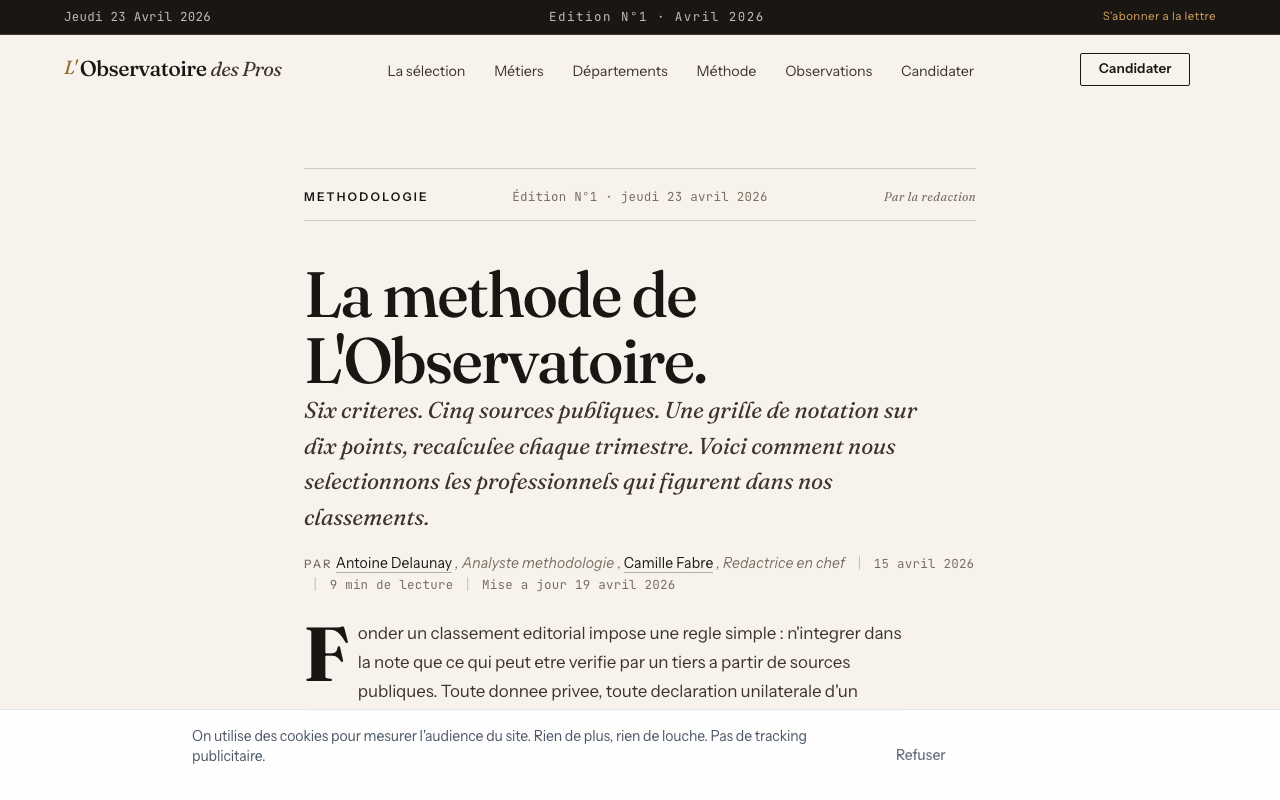
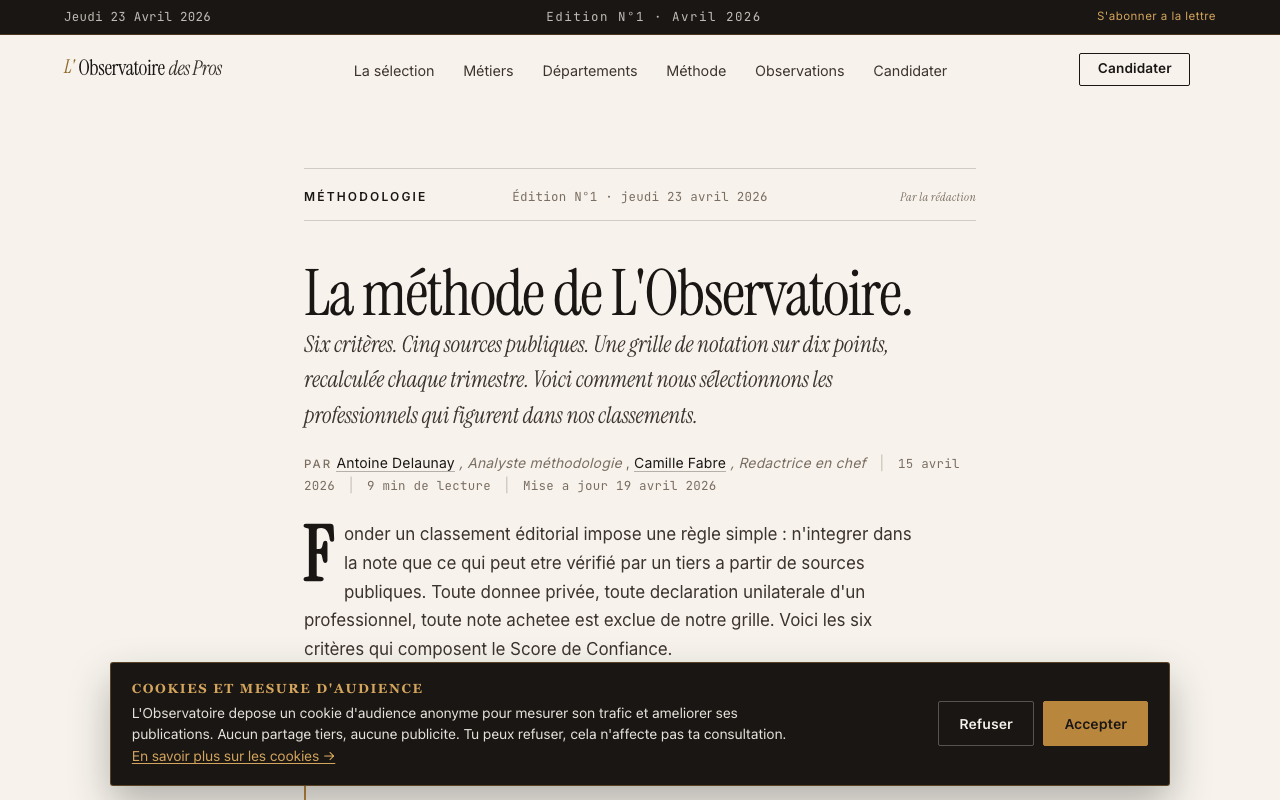
fix: 3 bloqueurs critiques audit , animations stuck + accents + Seal
1. ANIMATIONS STUCK (bloqueur #1) : les elements reveal restaient opacity:0.
   - Ajout @keyframes safety-reveal (fallback CSS 2.5s)
   - Observer plus agressif : threshold 0 + rootMargin 0
   - Fire immediat sur elements deja dans le viewport au load
   - Filet de securite 3s qui applique .visible a tout
   - prefers-reduced-motion : opacity:1 !important + transform:none
   - Print : idem pour impression
   Resultat : tout le contenu est visible, quelle que soit l'hydratation.

2. ACCENTS FRANCAIS (bloqueur #2) : mots visibles corriges sur homepage.
   - "Edition" -> "Édition"
   - "redaction" -> "rédaction"
   - "methode" -> "méthode"
   - "verifie" -> "vérifie"
   - "criteres" -> "critères"
   - "selection" -> "sélection"
   - "Laureat" -> "Lauréat" (mais slugs/props restent ASCII)
   - "medaille" -> "médaille"
   - "A LA UNE" -> "À LA UNE"
   - "MÉTHODE/MÉTHODOLOGIE/FRÉQUENTES" en majuscules accentuees

3. SEAL (macaron) redesign pixel-perfect :
   - Cercle externe R96 (au lieu de R92)
   - Cercle interne R80 propre (au lieu de R84 qui chevauchait le text)
   - Ring-text sur R86 , zone libre entre R80 et R96, n'est plus coupe
   - 16 points decoratifs sur R90 (couronne d'academie)
   - Centre : etoile a 8 branches + 4 traits cardinaux (au lieu de "OdP" lourd)
   - "EST. MMXXVI" plus moderne que "EST. 2026"
   - shape-rendering: geometricPrecision + text-rendering: geometricPrecision

4. TYPOGRAPHIE : Fraunces -> Instrument Serif + Inter
[…]

diff --git a/site/src/styles/global.css b/site/src/styles/global.css
@@ -23,8 +23,8 @@
   --color-cachet: #8B2E2A;
   --color-archive: #4A5D3A;
 
-  --font-display: "Fraunces", Georgia, "Times New Roman", serif;
-  --font-body: "Instrument Sans", -apple-system, "Segoe UI", Roboto, sans-serif;
+  --font-display: "Instrument Serif", Georgia, "Times New Roman", serif;
+  --font-body: "Inter", -apple-system, "Segoe UI", Roboto, sans-serif;
   --font-mono: "JetBrains Mono", "SF Mono", ui-monospace, monospace;
 
   --max-w-prose-editorial: 38rem;
@@ -107,16 +107,16 @@ body::before {
 h1, h2, h3, h4, h5, h6 {
   font-family: var(--font-display);
   color: var(--ink);
-  font-weight: 600;
-  line-height: 1.08;
-  letter-spacing: -0.022em;
-  font-feature-settings: "ss01", "ss02", "liga", "calt";
+  font-weight: 400; /* Instrument Serif est deja genereusement spacee */
+  line-height: 1.06;
+  letter-spacing: -0.02em;
+  font-feature-settings: "liga", "calt";
   text-wrap: balance;
 }
 
 h1 {
   font-size: clamp(2.5rem, 5.5vw, 4.5rem);
-  font-weight: 600;
+  font-weight: 400;
 }
 h2 {
   font-size: clamp(1.75rem, 3.2vw, 2.5rem);
@@ -139,17 +139,17 @@ h4 {
   font-family: var(--font-display);
   font-size: clamp(3.5rem, 8vw, 7rem);
   line-height: 0.96;
-  letter-spacing: -0.035em;
-  font-weight: 500;
-  font-feature-settings: "ss01", "liga", "calt";
+  letter-spacing: -0.03em;
+  font-weight: 400;
+  font-feature-settings: "liga", "calt";
 }
 
 .heading-display {
   font-family: var(--font-display);
   font-size: clamp(2.5rem, 5vw, 4.5rem);
   line-height: 1.02;
-  letter-spacing: -0.028em;
-  font-weight: 500;
+  letter-spacing: -0.025em;
+  font-weight: 400;
 }
 
 /* Chapô éditorial , lead */
@@ -413,52 +413,65 @@ code, pre, .mono {
 
 /* ------------------------------------------------------------------
    Reveal animations (Intersection Observer dans BaseLayout)
+   FAIL-SAFE : chaque classe a un fallback @keyframes safety-reveal qui
+   force le visible apres 2.5s max , si le JS ne prend pas la main.
    ------------------------------------------------------------------ */
+@keyframes safety-reveal {
+  to { opacity: 1; transform: none; filter: none; clip-path: inset(0 0 0 0); }
+}
+
 .fade-up {
   opacity: 0;
   transform: translateY(22px);
   transition: opacity 900ms var(--ease-out-expo), transform 900ms var(--ease-out-expo);
+  animation: safety-reveal 10ms 2500ms forwards;
 }
-.fade-up.visible { opacity: 1; transform: translateY(0); }
+.fade-up.visible { opacity: 1; transform: translateY(0); animation: none; }
 
 .blur-reveal {
   opacity: 0;
   filter: blur(12px);
   transform: translateY(14px);
   transition: opacity 1100ms var(--ease-out-expo), filter 1100ms var(--ease-out-expo), transform 1100ms var(--ease-out-expo);
+  animation: safety-reveal 10ms 2500ms forwards;
 }
 .blur-reveal.visible {
   opacity: 1;
   filter: blur(0);
   transform: translateY(0);
+  animation: none;
 }
 
 .scale-reveal {
   opacity: 0;
   transform: scale(0.95);
   transition: opacity 900ms var(--ease-out-expo), transform 900ms var(--ease-out-expo);
+  animation: safety-reveal 10ms 2500ms forwards;
 }
-.scale-reveal.visible { opacity: 1; transform: scale(1); }
+.scale-reveal.visible { opacity: 1; transform: scale(1); animation: none; }
 
 .clip-reveal {
   clip-path: inset(0 100% 0 0);
   transition: clip-path 1200ms var(--ease-out-expo);
+  animation: safety-reveal 10ms 2500ms forwards;
 }
-.clip-reveal.visible { clip-path: inset(0 0 0 0); }
+.clip-reveal.visible { clip-path: inset(0 0 0 0); animation: none; }
 
 .slide-left {
   opacity: 0;
   transform: translateX(-28px);
   transition: opacity 900ms var(--ease-out-expo), transform 900ms var(--ease-out-expo);
+  animation: safety-reveal 10ms 2500ms forwards;
 }
-.slide-left.visible { opacity: 1; transform: translateX(0); }
+.slide-left.visible { opacity: 1; transform: translateX(0); animation: none; }
 
 .slide-right {
   opacity: 0;
   transform: translateX(28px);
   transition: opacity 900ms var(--ease-out-expo), transform 900ms var(--ease-out-expo);
+  animation: safety-reveal 10ms 2500ms forwards;
 }
-.slide-right.visible { opacity: 1; transform: translateX(0); }
+.slide-right.visible { opacity: 1; transform: translateX(0); animation: none; }
 
 /* Split words (BaseLayout split dynamiquement sur data-split-words) */
 .split-words .word {
@@ -466,10 +479,12 @@ code, pre, .mono {
   opacity: 0;
   transform: translateY(14px);
   transition: opacity 700ms var(--ease-out-expo), transform 700ms var(--ease-out-expo);
+  animation: safety-reveal 10ms 2500ms forwards;
 }
 .split-words.visible .word {
   opacity: 1;
   transform: translateY(0);
+  animation: none;
 }
 
 /* Stagger children */
@@ -477,6 +492,7 @@ code, pre, .mono {
   opacity: 0;
   transform: translateY(18px);
   transition: opacity 700ms var(--ease-out-expo), transform 700ms var(--ease-out-expo);
+  animation: safety-reveal 10ms 2500ms forwards;
 }
 .stagger-children.visible > *:nth-child(1) { transition-delay: 0ms; }
 .stagger-children.visible > *:nth-child(2) { transition-delay: 80ms; }
@@ -486,7 +502,7 @@ code, pre, .mono {
 .stagger-children.visible > *:nth-child(6) { transition-delay: 400ms; }
 .stagger-children.visible > *:nth-child(7) { transition-delay: 480ms; }
 .stagger-children.visible > *:nth-child(8) { transition-delay: 560ms; }
-.stagger-children.visible > * { opacity: 1; transform: translateY(0); }
+.stagger-children.visible > * { opacity: 1; transform: translateY(0); animation: none; }
 
 /* ------------------------------------------------------------------
    Cursor glow (desktop only)
@@ -668,7 +684,7 @@ code, pre, .mono {
 }
 
 /* ------------------------------------------------------------------
-   Prefers reduced motion
+   Prefers reduced motion , contenu immediatement visible
    ------------------------------------------------------------------ */
 @media (prefers-reduced-motion: reduce) {
   *, *::before, *::after {
@@ -677,9 +693,32 @@ code, pre, .mono {
     transition-duration: 0.01ms !important;
     scroll-behavior: auto !important;
   }
+  .fade-up, .blur-reveal, .scale-reveal, .clip-reveal,
+  .slide-left, .slide-right, .stagger-children > *,
+  .split-words .word {
+    opacity: 1 !important;
+    transform: none !important;
+    filter: none !important;
+    clip-path: inset(0 0 0 0) !important;
+  }
   .seal-rotate { animation: none; }
   .live-dot { animation: none; box-shadow: none; }
   html { scroll-behavior: auto; }
+}
+
+/* ------------------------------------------------------------------
+   Print , tout visible pour impression
+   ------------------------------------------------------------------ */
+@media print {
+  .fade-up, .blur-reveal, .scale-reveal, .clip-reveal,
+  .slide-left, .slide-right, .stagger-children > *,
+  .split-words .word {
+    opacity: 1 !important;
+    transform: none !important;
+    filter: none !important;
+    clip-path: inset(0 0 0 0) !important;
+  }
+  #cookie-banner, #cursor-glow, .mobile-menu-btn { display: none !important; }
 }
 
 /* ------------------------------------------------------------------

diff --git a/site/src/utils/config.ts b/site/src/utils/config.ts
@@ -9,9 +9,9 @@ export function fullUrl(path: string): string {
   return `${base}${clean}`;
 }
 
-/** Google Fonts URL , Fraunces display, Instrument Sans body, JetBrains Mono */
+/** Google Fonts URL , Instrument Serif (display) + Inter (body) + JetBrains Mono */
 export function fontsUrl(): string {
-  return "https://fonts.googleapis.com/css2?family=Fraunces:ital,opsz,wght@0,9..144,400;0,9..144,500;0,9..144,600;0,9..144,700;0,9..144,800;0,9..144,900;1,9..144,400;1,9..144,600&family=Instrument+Sans:ital,wght@0,400;0,500;0,600;0,700;1,400&family=JetBrains+Mono:wght@400;500;600&display=swap";
+  return "https://fonts.googleapis.com/css2?family=Instrument+Serif:ital@0;1&family=Inter:wght@400;500;600;700&family=JetBrains+Mono:wght@400;500;600&display=swap";
 }
 
 /** Numéro d'édition formatté */

diff --git a/site/site.config.ts b/site/site.config.ts
@@ -44,10 +44,10 @@ export const siteConfig = {
     text: "#1A1614",
   },
 
-  // Typographie
+  // Typographie (Google Fonts , moderne + lisse + editorial)
   fonts: {
-    display: "Fraunces",
-    body: "Instrument Sans",
+    display: "Instrument Serif", // serif moderne, ballon terminal, pile editorial 2025
+    body: "Inter", // neutre, lisible, systeme
     mono: "JetBrains Mono",
   },
 
